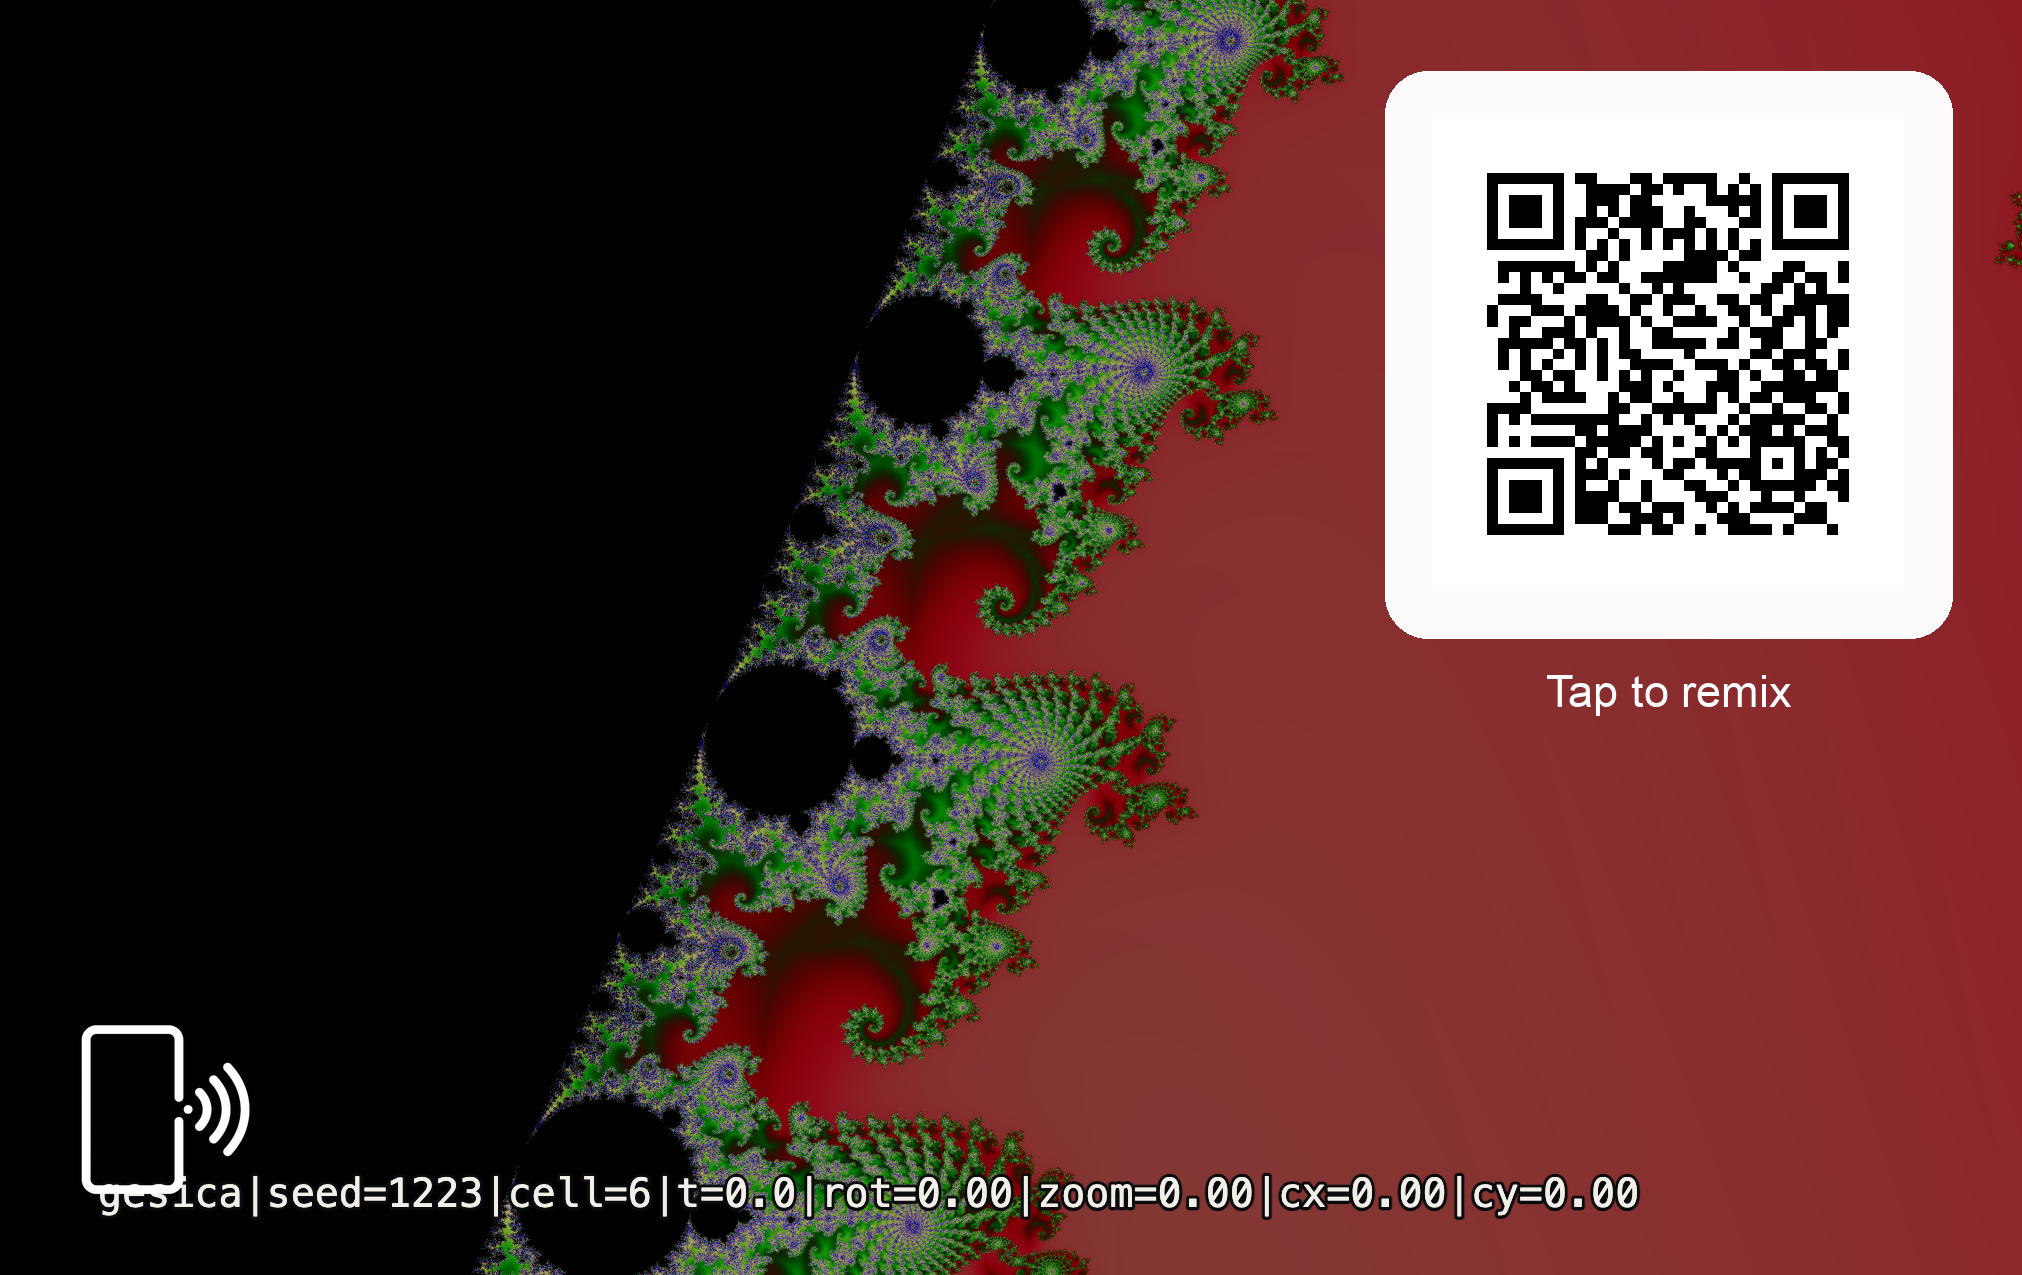
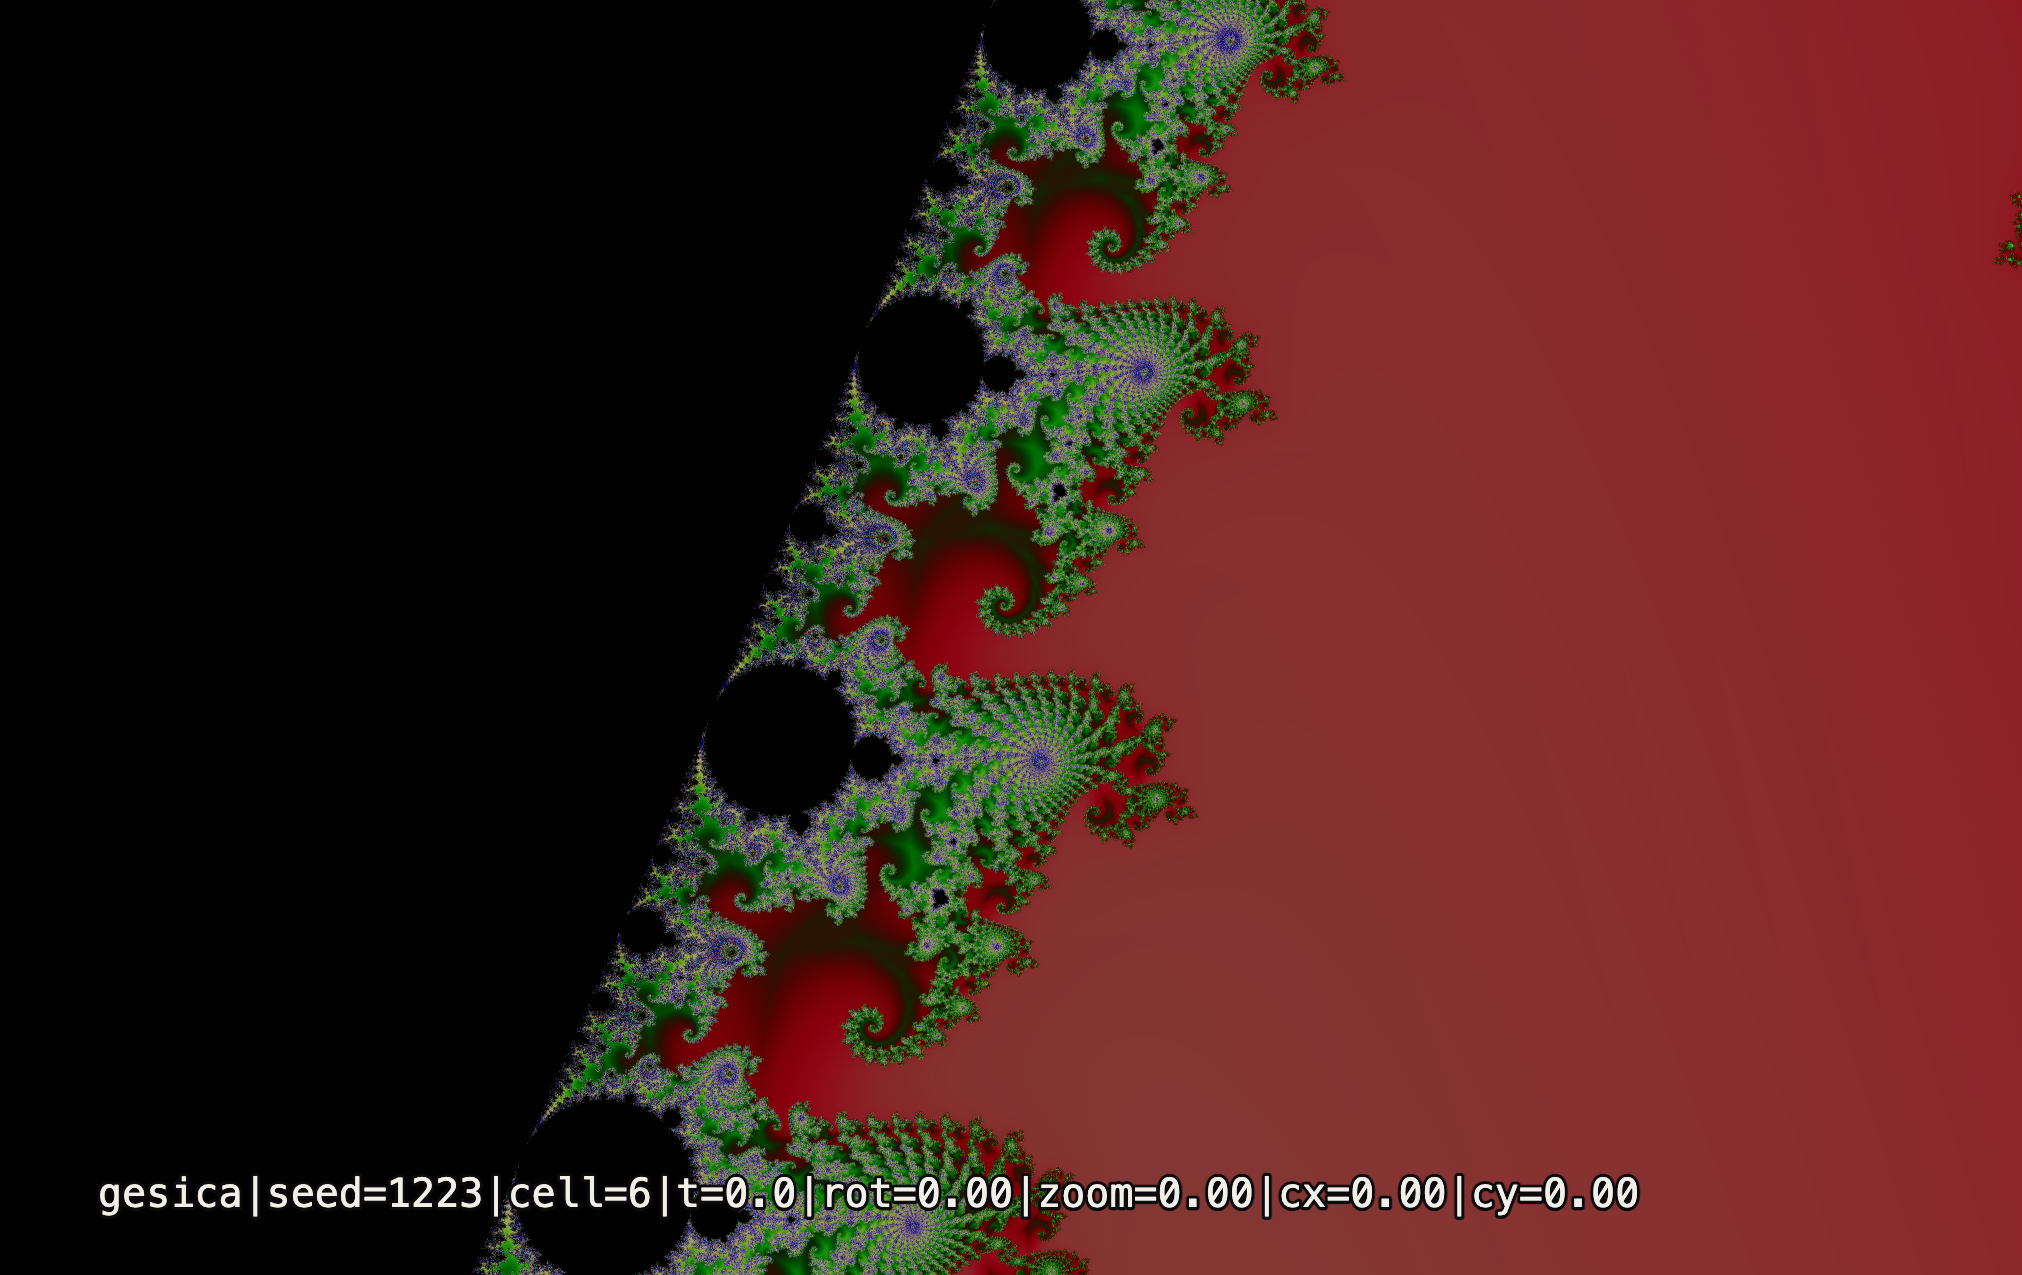
The plate under a QR could be made white or black, never removed
drawFace has always honoured a falsy `light` by skipping the plate entirely and
a falsy `quiet` by leaving no margin. The panel could not produce either value:
<input type="color"> has no empty state, so the control for "no plate" rendered
a colour picker whose every setting draws a plate. The two buttons are the same
shape as the No stroke / No fill pair already sitting eight lines above.

The same edit fixes what those older buttons looked like. syncInspectorValues
wrote '' straight into the colour input, which coerces to #000000, so every
none-state displayed as a BLACK swatch — press No fill and the element correctly
loses its fill while the panel says it is filled black.

KELIBRO-009's back stops baking its code in. The background is now the GESICA
export exactly as the deck produced it, and the code and tap mark are elements,
so their size, position, colour, quiet zone and plate are all adjustable and the
artwork is reusable without them. It ships with no plate and no margin, which is
safe HERE and not in general: the artwork under that corner is a flat dark field,
mean luminance 70 of 255 with standard deviation 1.9, so white modules carry the
contrast and the artwork supplies the quiet zone. Measured before it was chosen,
then decoded off the composed face at 20mm and 22mm.

The print files are composed at the template's own geometry — 33 data modules
across the 20mm box, 0.606mm per module, the figure the studio's own readout
[…]

Changed region(s): [[0.6855, 0.0306, 0.9659, 0.5506], [0.0312, 0.7953, 0.1246, 0.9482]]

diff --git a/src/web/app.js b/src/web/app.js
@@ -1065,11 +1065,29 @@ const TEMPLATES = {
   'kelibro-back': {
     label: 'Kelibro 009 — back',
     group: 'Parametric Deck 009',
+    /* THE ARTWORK IS UNTOUCHED AND EVERYTHING ON TOP OF IT IS A PARAMETER.
+     * The first cut of this card baked the code, its white plate and the tap
+     * mark into the PNG, which made all three unadjustable: the plate could not
+     * be resized or removed without regenerating the image, and the artwork
+     * could not be reused without them. Here the background is the GESICA export
+     * exactly as it came out of the deck, and the code and mark are elements —
+     * move them, resize them, restyle them, delete them.
+     * No plate, deliberately: the artwork under this corner is a flat dark field
+     * (mean luminance 70 of 255, standard deviation 1.9), so white modules have
+     * their contrast and the artwork itself supplies the quiet zone that a dark
+     * code would need a printed white square for. Measured first, then decoded
+     * off the composed face at 20 and 22 mm. Move this code onto the busy half
+     * and it stops scanning — press "White plate" in the QR panel if you do. */
     build: () => ({
       bg: { type: 'color', color: '#ffffff' },
       elements: [
         { ...defaults('image'), x: 0, y: 0, w: 85.6, h: 53.98, radius: 0,
           fit: 'cover', src: 'cards/kelibro-back.png' },
+        { ...defaults('qr'), x: 60.6, y: 5, w: 20, h: 20,
+          text: 'https://mrdirno.github.io/vibe-cards/kelibro/',
+          ec: 'Q', dark: '#ffffff', light: '', quiet: 0 },
+        { ...defaults('image'), x: 3, y: 42.98, w: 8, h: 8,
+          radius: 0, fit: 'contain', src: 'marks/tap-white.png' },
       ],
     }),
   },
@@ -2322,9 +2340,14 @@ function buildInspector() {
       <textarea data-k="text" rows="2">${escapeHtml(el.text)}</textarea>
       <div class="field-row" style="margin-top:8px"><label>Correction</label>
         <select data-k="ec">${['L', 'M', 'Q', 'H'].map((v) => `<option ${el.ec === v ? 'selected' : ''}>${v}</option>`).join('')}</select></div>
-      <div class="field-row"><label>Dark</label><input type="color" data-k="dark" value="${el.dark}"></div>
-      <div class="field-row"><label>Light</label><input type="color" data-k="light" value="${el.light}"></div>
+      <div class="field-row"><label>Dark</label><input type="color" data-k="dark" value="${el.dark || '#000000'}"></div>
+      <div class="field-row"><label>Light</label><input type="color" data-k="light" value="${el.light || '#ffffff'}"></div>
       <div class="xy-grid">${fieldNum('Quiet', 'quiet', 1, 'mod')}</div>
+      <p class="insp-note">${el.light
+        ? 'The plate is the light square printed under the code. Quiet is its margin, in modules.'
+        : 'No plate — the artwork under the code shows through. It must be plain, and the opposite tone to Dark.'}</p>
+      <div class="btn-row" style="margin-top:8px"><button class="btn btn-ghost" id="insp-noplate">No plate</button>
+      <button class="btn btn-ghost" id="insp-plate">White plate</button></div>
       ${qrReadout(el)}
     </div>`;
   }
@@ -2373,6 +2396,16 @@ function buildInspector() {
   on('#insp-circle', () => { const e2 = selected(); e2.h = e2.w; e2.radius = e2.w / 2; render(); buildInspector(); });
   on('#insp-nostroke', () => { selected().stroke = ''; render(); });
   on('#insp-nofill', () => { selected().fill = ''; render(); });
+  /* A COLOUR INPUT CANNOT SAY "NONE". drawFace already honours a falsy `light`
+   * by skipping the fill entirely, and a falsy `quiet` by leaving no margin —
+   * but <input type="color"> has no empty state, so from the panel the plate
+   * could be made white or black and never removed. These two buttons are the
+   * same shape as No stroke / No fill above, for the same reason.
+   * Removing the plate is only safe over plain artwork in the opposite tone;
+   * the note above the buttons says so, because the failure is silent: the code
+   * still LOOKS right on screen and stops scanning on the printed card. */
+  on('#insp-noplate', () => { const e2 = selected(); e2.light = ''; e2.quiet = 0; render(); buildInspector(); });
+  on('#insp-plate', () => { const e2 = selected(); e2.light = '#ffffff'; e2.quiet = 2; render(); buildInspector(); });
 
   box.querySelectorAll('[data-align]').forEach((b) => b.onclick = () => {
     const e2 = selected(), c = S.doc.card; if (!e2) return;
@@ -2394,6 +2427,13 @@ function syncInspectorValues() {
     const v = el[inp.dataset.k];
     if (inp.type === 'checkbox') inp.checked = !!v;
     else if (inp.type === 'number') inp.value = v == null ? '' : round(v, 2);
+    /* An EMPTY colour means "none" — no fill, no stroke, no QR plate — and the
+     * markup already renders the swatch with a sensible fallback for that case.
+     * Writing '' into <input type="color"> here instead coerced it to #000000,
+     * so every one of those states displayed as a BLACK swatch: "No fill" drew
+     * an element with no fill and showed black, which reads as a black fill.
+     * Leave the fallback standing. '' is not a colour and must not be written. */
+    else if (inp.type === 'color') { if (v) inp.value = v; }
     else if (v != null) inp.value = v;
   });
 }

diff --git a/src/web/styles.css b/src/web/styles.css
@@ -307,6 +307,10 @@ textarea { resize: vertical; font-family: var(--mono); font-size: 11.5px; line-h
 .insp-group { border-top: 1px solid var(--line-soft); margin-top: 12px; padding-top: 11px; }
 .insp-group:first-child { border-top: 0; margin-top: 0; padding-top: 0; }
 .insp-title { font: 10px/1 var(--mono); letter-spacing: .1em; text-transform: uppercase; color: var(--dimmer); margin-bottom: 8px; }
+/* A one-line consequence under a control whose failure is silent — the QR plate
+   is the first, because a code with the plate removed over busy artwork still
+   renders correctly on screen and simply stops scanning once printed. */
+.insp-note { font: 11px/1.45 var(--sans); color: var(--dimmer); margin: 8px 0 0; }
 .xy-grid { display: grid; grid-template-columns: 1fr 1fr; gap: 6px 8px; }
 .xy-grid label { display: flex; align-items: center; gap: 5px; color: var(--dim); font: 11px var(--mono); }
 .xy-grid input { width: 100%; }
